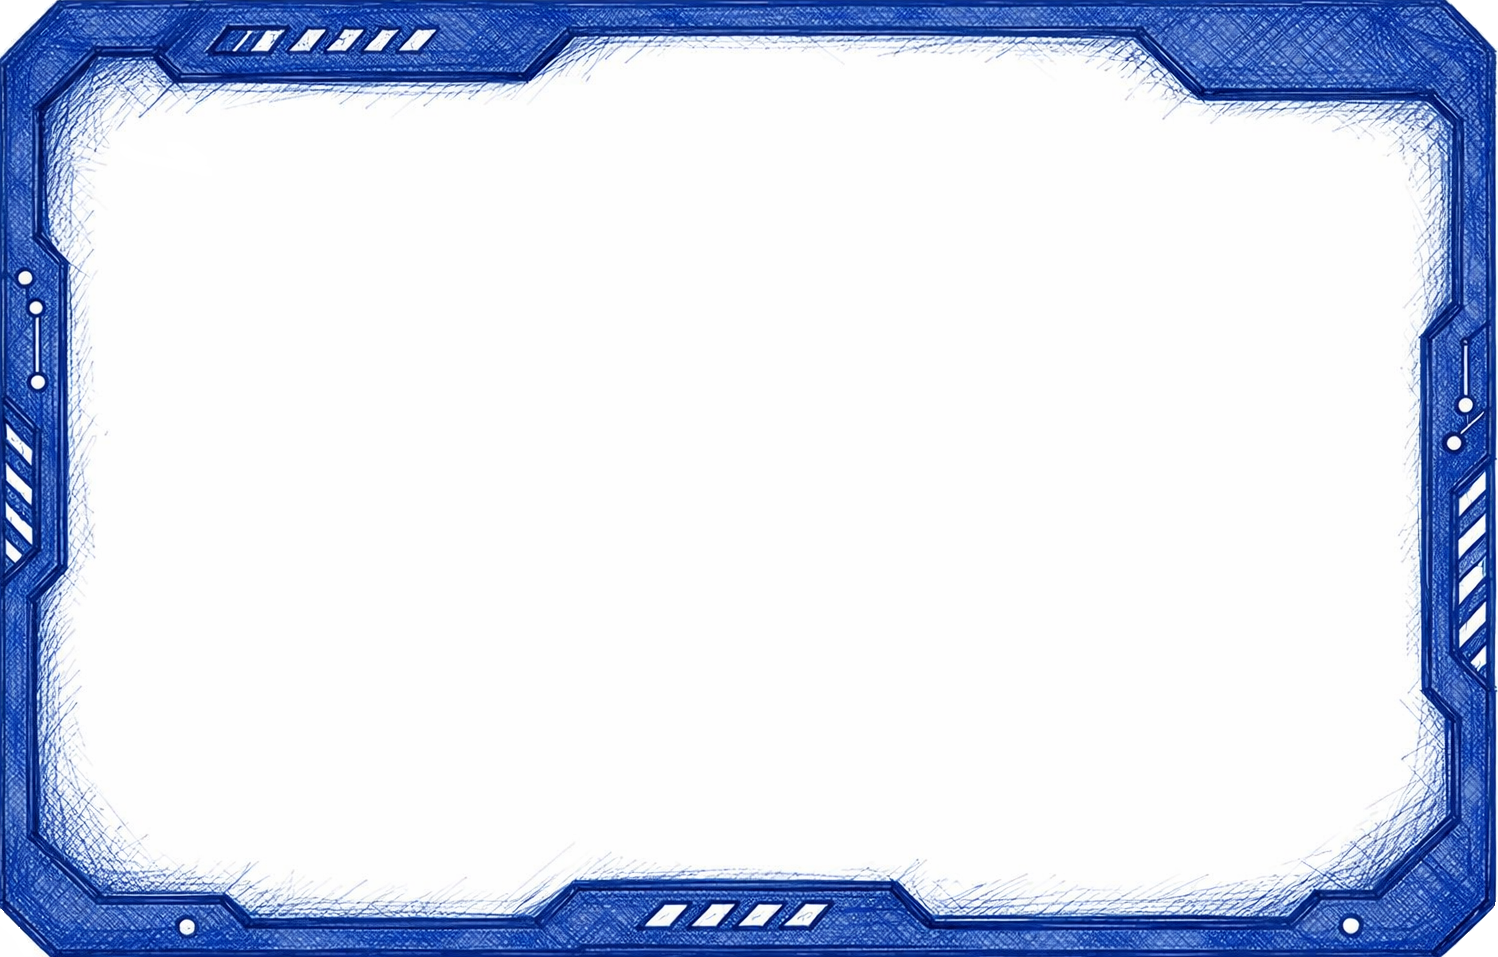
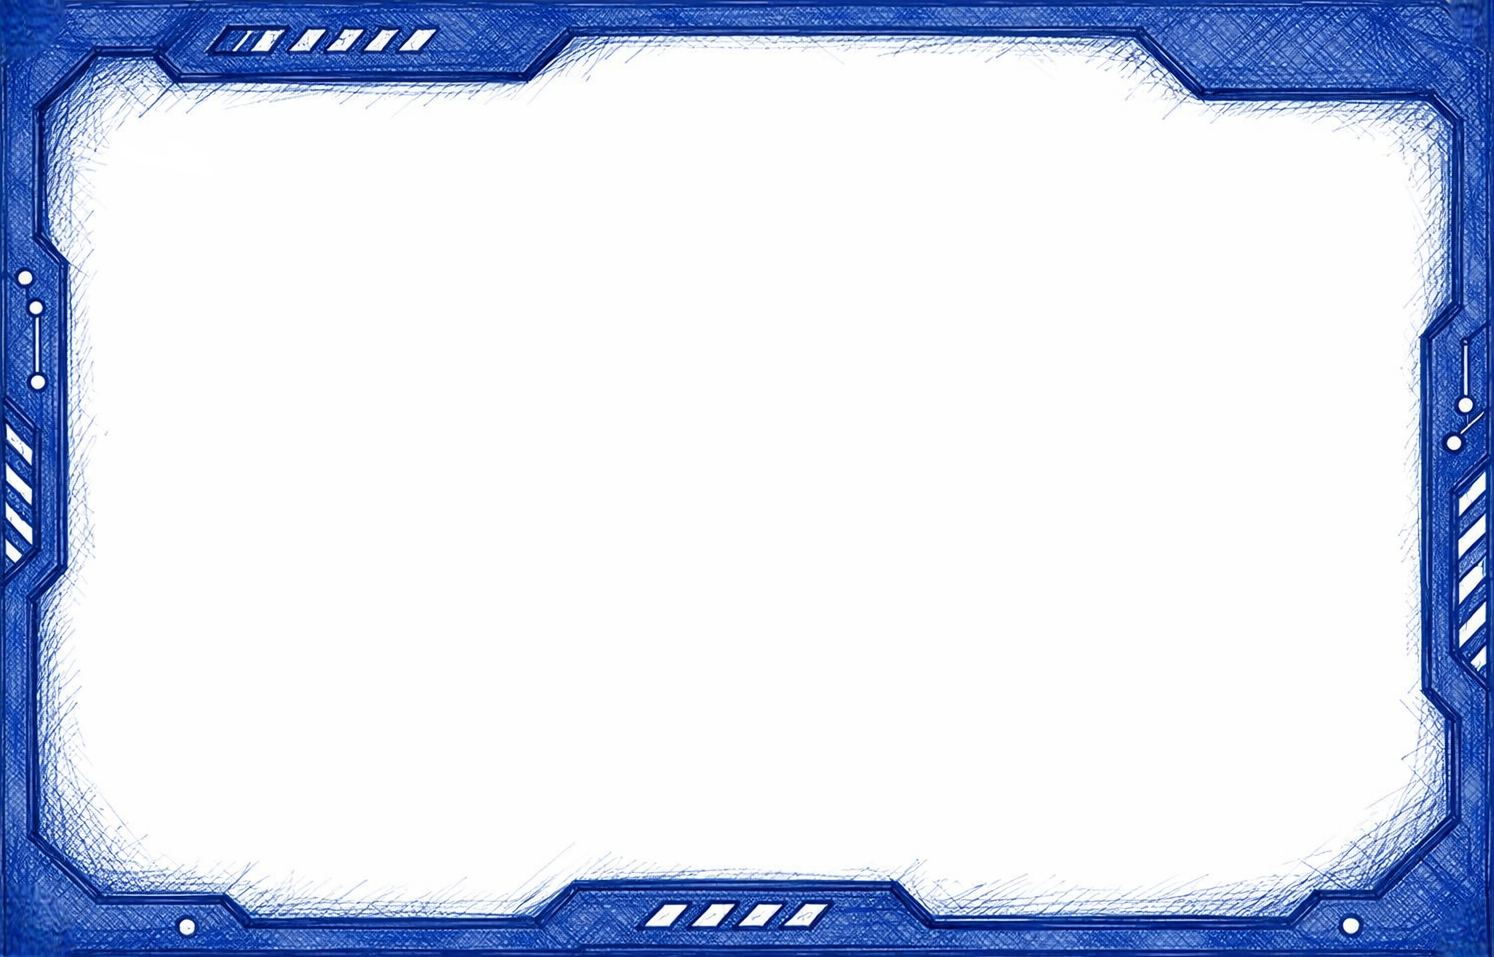
feat(ui): marco gameOver.png en ventanas + fixes de botones y cohete (v1.14.0)
- Ventanas (Game Over, Opciones, Top 5, Creditos, Volver-al-menu) usan
  gameOver.png como marco via border-image (9-slice, sin deformar)
- Botones acomodados dentro del marco en Game Over y confirmacion de salir
- HUD circular oculto durante Game Over (ya no tapa la ventana)
- Fix: cohete vs asteroide especial ahora dispara su efecto (mini en orbita)
- Assets de explosion (esplocionRojo/Verde1-4) y fondo jugando-en-el-espacio

diff --git a/src/game/sistemas/Game.js b/src/game/sistemas/Game.js
@@ -1991,6 +1991,13 @@ _crearParticulaBoidFuera() {
         this.ejecutando = false;
         this.enGameOver = true;
 
+        // Ocultar el HUD (escudo curvo, paneles, marcador): está en zIndex 1000,
+        // por encima de la ventana de Game Over, y no tiene sentido durante el
+        // fin de partida. Se restaura al reiniciar.
+        if (this.pixiHUD && this.pixiHUD.container) {
+            this.pixiHUD.container.visible = false;
+        }
+
         // Cortar el bucle de rotura de escudos si estaba sonando
         if (this.jugador && this.gestorSonido) {
             this.gestorSonido.detener(this.jugador._loopRotura);
@@ -2008,7 +2015,7 @@ _crearParticulaBoidFuera() {
         this.elementosFinJuego.push(bg);
         
         // Cargar imagen de Game Over
-        const gameOverTexture = await PIXI.Assets.load('assets/gameOver.jpg');
+        const gameOverTexture = await PIXI.Assets.load('assets/gameOver.png');
         
         // Crear sprite con la imagen
         const gameOverSprite = new PIXI.Sprite(gameOverTexture);
@@ -2404,8 +2411,9 @@ _crearBotonesGameOverHTML(xCentro, yCentro, ancho) {
     const scaleY = rect.height / this.altoJuego;
     
     // 'ancho' = altura real del papel (ya escalada). Ubicar los botones en la
-    // parte baja del papel, debajo del texto de puntuación/oleada.
-    const btnY = yCentro + (ancho * 0.42);
+    // parte baja del papel PERO dentro del blanco (0.32, no 0.42, para que no
+    // queden sobre el borde inferior del marco).
+    const btnY = yCentro + (ancho * 0.32);
     
     // Botón Reiniciar - centrado debajo de la imagen
     const btnReiniciar = document.createElement('img');
@@ -2413,10 +2421,10 @@ _crearBotonesGameOverHTML(xCentro, yCentro, ancho) {
     btnReiniciar.id = 'btn-reiniciar';
     btnReiniciar.style.cssText = `
         position: absolute;
-        left: ${this.anchoJuego * 0.42}px;
+        left: ${this.anchoJuego / 2 - 90}px;
         top: ${btnY * scaleY}px;
         transform: translate(-50%, -50%);
-        width: 175px;
+        width: 145px;
         height: auto;
         cursor: pointer;
         z-index: 1000;
@@ -2450,10 +2458,10 @@ _crearBotonesGameOverHTML(xCentro, yCentro, ancho) {
     btnTop5.src = 'assets/botonTOP5.png';
     btnTop5.style.cssText = `
         position: absolute;
-        left: ${this.anchoJuego * 0.58}px;
+        left: ${this.anchoJuego / 2 + 90}px;
         top: ${btnY * scaleY}px;
         transform: translate(-50%, -50%);
-        width: 175px;
+        width: 145px;
         height: auto;
         cursor: pointer;
         z-index: 1000;
@@ -2565,10 +2573,12 @@ _crearBotonesGameOverHTML(xCentro, yCentro, ancho) {
         this.clickHandlerActivo = true;
         this.botonClicked = false;
         
-        // Re-agregar el contenedor del HUD (PixiHUD) al stage.
-        // Es necesario porque stage.removeChildren() lo eliminó arriba.
+        // Re-agregar el contenedor del HUD (PixiHUD) al stage y volver a mostrarlo
+        // (se ocultó en gameOver). Es necesario porque stage.removeChildren() lo
+        // eliminó arriba.
         if (hudContainer && this.aplicacion && this.aplicacion.stage) {
             this.aplicacion.stage.addChild(hudContainer);
+            hudContainer.visible = true;
         }
 
         // Restaurar la interactividad del stage: el game over (_limpiarFinJuego)
@@ -2910,7 +2920,7 @@ _crearBotonesGameOverHTML(xCentro, yCentro, ancho) {
         }
         
         // Cargar imagen de puntuación (usando gameOver.jpg como fondo)
-        const puntuacionTexture = await PIXI.Assets.load('assets/gameOver.jpg');
+        const puntuacionTexture = await PIXI.Assets.load('assets/gameOver.png');
         
         // Crear sprite con la imagen
         const puntuacionSprite = new PIXI.Sprite(puntuacionTexture);

diff --git a/src/ui/UIManager.js b/src/ui/UIManager.js
@@ -100,8 +100,10 @@ export class UIManager {
 
         const exterior = document.createElement('div');
         exterior.style.cssText = `
-            background: url('assets/gameOver.jpg') no-repeat center center;
-            background-size: 100% 100%;
+            border-style: solid;
+            border-width: 36px;
+            border-image: url('assets/gameOver.png') 100 fill / 36px / 0 stretch;
+            box-sizing: border-box;
             width: ${Math.min(560, this.width * 0.9)}px;
             display: flex; justify-content: center; align-items: center;
         `;
@@ -459,8 +461,10 @@ export class UIManager {
 
         const exterior = document.createElement('div');
         exterior.style.cssText = `
-            background: url('assets/gameOver.jpg') no-repeat center center;
-            background-size: 100% 100%;
+            border-style: solid;
+            border-width: 36px;
+            border-image: url('assets/gameOver.png') 100 fill / 36px / 0 stretch;
+            box-sizing: border-box;
             width: ${Math.min(560, this.width * 0.9)}px;
             display: flex;
             justify-content: center;
@@ -513,6 +517,10 @@ export class UIManager {
         const btnVolver = this._crearBotonConfirm('VOLVER AL MENÚ', () => {
             if (onConfirmar) onConfirmar();
         }, 'assets/botonVolverAlMenu.png');
+
+        // Los PNG de estos botones son grandes (490×120 / 450×120) y se salían del
+        // marco. Los achicamos por alto (width auto) para que entren dentro.
+        for (const b of [btnSeguir, btnVolver]) { b.style.height = '44px'; b.style.width = 'auto'; }
 
         fila.appendChild(btnSeguir);
         fila.appendChild(btnVolver);
@@ -875,13 +883,13 @@ export class UIManager {
             flex-direction: column;
             align-items: center;
             justify-content: center;
-            background: url('assets/gameOver.jpg') no-repeat center center;
-            background-size: cover;
+            border-style: solid;
+            border-width: 36px;
+            border-image: url('assets/gameOver.png') 100 fill / 36px / 0 stretch;
+            box-sizing: border-box;
             width: ${Math.min(750, this.width * 0.9)}px;
             height: ${Math.min(700, this.height * 0.9)}px;
-            padding: 30px;
-            border-radius: 20px;
-            border: 4px solid #0044CC;
+            padding: 60px 55px;
         `;
         
         // Mostrar primer paso
@@ -912,8 +920,10 @@ export class UIManager {
         
         const exterior = document.createElement('div');
         exterior.style.cssText = `
-            background: url('assets/gameOver.jpg') no-repeat center center;
-            background-size: 100% 100%;
+            border-style: solid;
+            border-width: 36px;
+            border-image: url('assets/gameOver.png') 100 fill / 36px / 0 stretch;
+            box-sizing: border-box;
             width: ${Math.min(560, this.width * 0.9)}px;
             display: flex;
             justify-content: center;
@@ -1104,8 +1114,10 @@ export class UIManager {
         
         const exterior = document.createElement('div');
         exterior.style.cssText = `
-            background: url('assets/gameOver.jpg') no-repeat center center;
-            background-size: 100% 100%;
+            border-style: solid;
+            border-width: 36px;
+            border-image: url('assets/gameOver.png') 100 fill / 36px / 0 stretch;
+            box-sizing: border-box;
             width: ${Math.min(640, this.width * 0.9)}px;
             display: flex;
             justify-content: center;

diff --git a/src/game/sistemas/GameSkills.js b/src/game/sistemas/GameSkills.js
@@ -17,6 +17,7 @@
 import { Cohete } from '../mecanicas/Cohete.js';
 import { SuccionEffect } from '../efectosVisuales/SuccionEffect.js';
 import { AsteroidExplosion } from '../efectosVisuales/AsteroidExplosion.js';
+import { SpecialEnemy } from '../entidades/SpecialEnemy.js';
 import { CONFIG } from '../../config.js';
 
 /**
@@ -225,6 +226,21 @@ export function actualizarCohetes(game, delta) {
                 }
             }
 
+            // Si el objetivo es un asteroide ESPECIAL, hacer su EFECTO: generar 1
+            // mini especial que orbita al jugador (igual que al destruirlo con un
+            // proyectil). Antes el cohete solo lo destruía, sin este efecto.
+            const esEspecial = game.enemigosSpeciales.includes(objetivo) && !objetivo.enOrbita;
+            if (esEspecial) {
+                const angulo = Math.random() * Math.PI * 2;
+                const xMini = game.jugador.x + Math.cos(angulo) * 130;
+                const yMini = game.jugador.y + Math.sin(angulo) * 130;
+                const mini = new SpecialEnemy(xMini, yMini, game.jugador, game.texturaAsteroideSpecial, game.anchoJuego, game.altoJuego, true);
+                mini.enOrbita = true;
+                mini.indiceOrbita = 0;
+                mini.render(game.aplicacion.stage);
+                game.enemigosSpeciales.push(mini);
+            }
+
             // Destruir objetivo
             if (objetivo.destroy) {
                 objetivo.destroy();
@@ -235,7 +251,11 @@ export function actualizarCohetes(game, delta) {
                     objetivo.imagen.parent?.removeChild(objetivo.imagen);
                 }
             }
-            
+            if (esEspecial) {
+                const idx = game.enemigosSpeciales.indexOf(objetivo);
+                if (idx >= 0) game.enemigosSpeciales.splice(idx, 1);
+            }
+
             // Destruir cohete
             cohete.destroy();
             game.cohetes.splice(i, 1);

diff --git a/src/game/sistemas/GameMejoras.js b/src/game/sistemas/GameMejoras.js
@@ -47,7 +47,7 @@ export async function crearVentanaMejoras(game) {
     game.aplicacion.stage.interactive = true;
     
     // Cargar textura de game over para el fondo
-    const gameOverTexture = await PIXI.Assets.load('assets/gameOver.jpg');
+    const gameOverTexture = await PIXI.Assets.load('assets/gameOver.png');
     
     // Fondo
     const fondoSprite = new PIXI.Sprite(gameOverTexture);

diff --git a/documentacion/PENDIENTES.md b/documentacion/PENDIENTES.md
@@ -1,7 +1,16 @@
 # Pendientes - Jugando en el Espacio
 
-**Última actualización:** 08/07/2026  
-**Versión:** v1.13.0 (ACTUAL)
+**Última actualización:** 13/07/2026  
+**Versión:** v1.14.0 (ACTUAL)
+
+---
+
+## ✅ Completado v1.14.0 - Ventanas con marco gameOver.png + fixes de botones y cohete
+
+- **Nuevo marco decorativo en las ventanas** (`UIManager.js`, `Game.js`, `assets/gameOver.png`): Game Over (PixiJS), Opciones, Top 5, Créditos y "¿Volver al menú?" usan `gameOver.png` como marco. Las ventanas DOM usan `border-image: url('assets/gameOver.png') 100 fill / 36px / 0 stretch` (9-slice: esquinas fijas, bordes estirados) en vez de `background-size:100% 100%`, que deformaba el marco (el aspecto del modal ≠ aspecto de la imagen). El Game Over de PixiJS usa un Sprite con escala uniforme (mantiene proporción).
+- **Botones acomodados dentro del marco**: en Game Over los botones (Reiniciar / Top 5) se achicaron a 145px y se centraron en `±90px`, y se subieron a `btnY = yCentro + ancho*0.32` para quedar dentro del interior blanco (antes se superponían y pisaban el borde). En "¿Volver al menú?" (`mostrarConfirmacionSalir`) los botones-imagen (490×120 / 450×120) se achicaron a `height:44px; width:auto` para entrar en el interior (~388px) lado a lado.
+- **HUD circular oculto en Game Over** (`Game.gameOver`, `_reiniciarJuego`): el escudo curvo (zIndex del HUD > sprite de Game Over) aparecía por encima de la ventana. Se oculta todo el `pixiHUD.container` durante el Game Over y se restaura al reiniciar.
+- **Fix cohete vs asteroide especial** (`GameSkills.js`): al destruir un asteroide especial con el cohete solo se destruía, sin disparar su efecto. Ahora, si el objetivo del cohete es un especial (no en órbita), se genera el mini-asteroide especial en órbita (130px del jugador) igual que con la colisión normal.
 
 ---
 

diff --git a/README.md b/README.md
@@ -1,7 +1,7 @@
 # 🎮 Jugando en el Espacio
 
 [![GitHub Pages](https://img.shields.io/badge/Jugar-Aquí-0044CC?style=for-the-badge)](https://wackxion.github.io/proyecto-de-PVJ1-Jugando-en-el-Espacio-/)
-[![Versión](https://img.shields.io/badge/Versión-v1.13.0-FFA500?style=for-the-badge)](https://github.com/wackxion/proyecto-de-PVJ1-Jugando-en-el-Espacio-/releases/tag/v1.13.0)
+[![Versión](https://img.shields.io/badge/Versión-v1.14.0-FFA500?style=for-the-badge)](https://github.com/wackxion/proyecto-de-PVJ1-Jugando-en-el-Espacio-/releases/tag/v1.14.0)
 
 ---
 
@@ -361,7 +361,15 @@ main.js
 
 ## 📜 Historial de Versiones
 
-### v1.13.0 (Actual)
+### v1.14.0 (Actual)
+> **Ventanas con marco `gameOver.png` + fixes de botones y cohete**
+
+- 🖼 **Nuevo marco de ventanas**: Game Over, Opciones, Top 5, Créditos y "¿Volver al menú?" usan `gameOver.png` como marco decorativo (vía `border-image`, sin deformar)
+- 🎯 **Botones acomodados dentro del marco**: Game Over y la ventana de salir dejaron de superponerse/salirse del borde
+- 🛡 **HUD circular oculto en Game Over**: el escudo curvo ya no aparece por encima de la ventana
+- 💥 **Fix cohete vs asteroide especial**: al destruirlo con el cohete ahora sí dispara su efecto (mini-asteroide en órbita)
+
+### v1.13.0
 > **Marcos por nivel de mejora + sonidos de compra**
 
 - 🖼 **Marco que sube de tier**: el marco de cada habilidad cambia según cuántas mejoras compraste (5 marcos). La 1ª mejora no cambia el marco, recién la 2ª (`marco = max(1, nivel)`)
